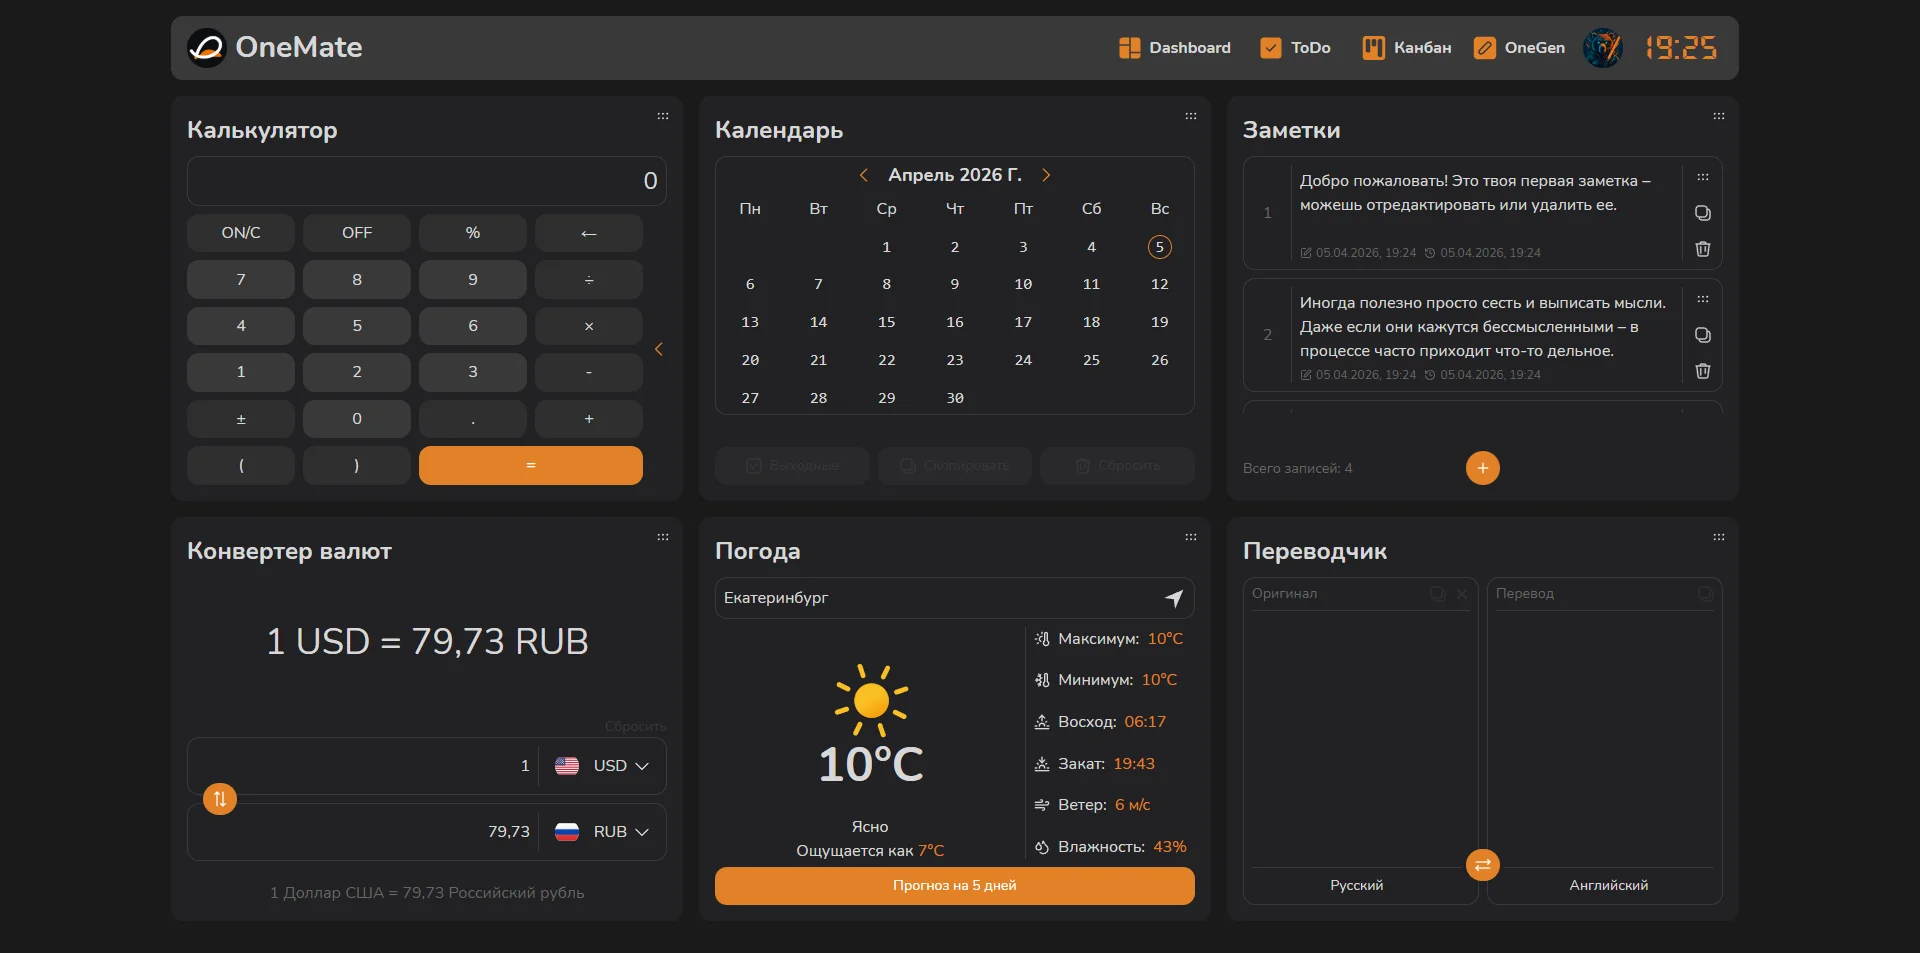
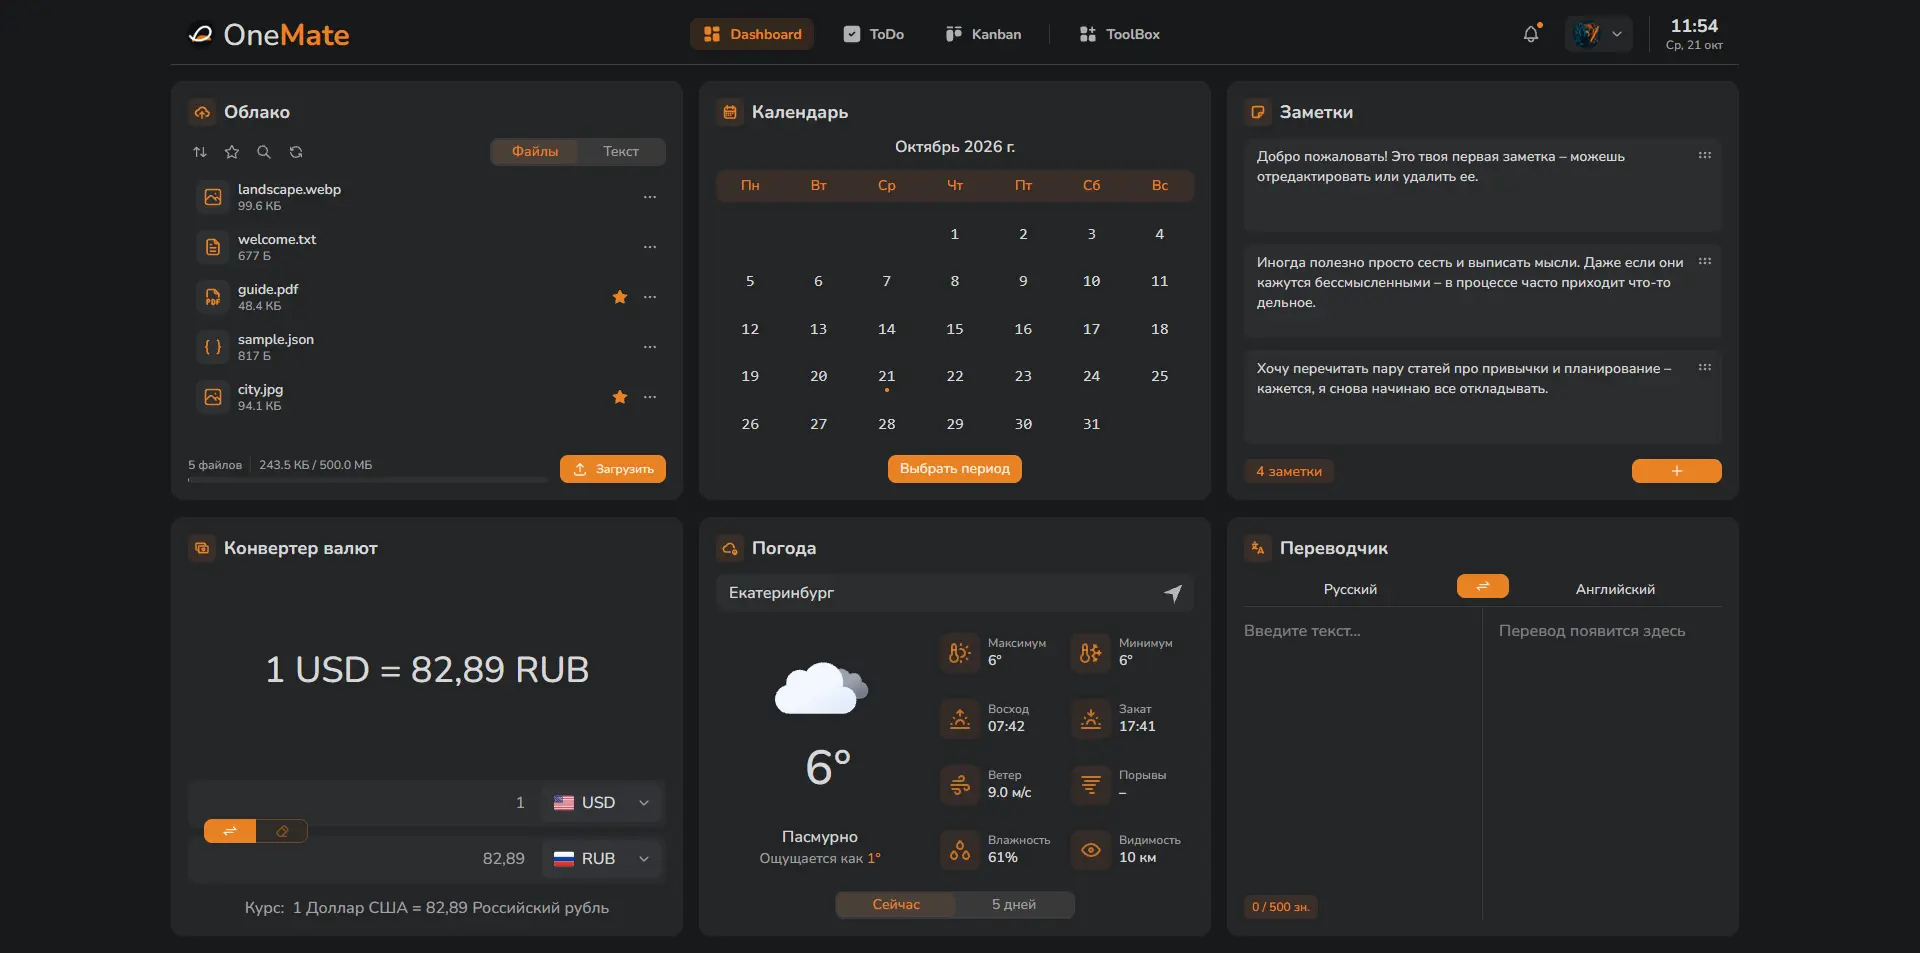
chore: update readme and docs

diff --git a/README.md b/README.md
@@ -13,13 +13,47 @@
 
 </div>
 
-**OneMate** – веб-приложение для создания собственного рабочего пространства с конструктором виджетов, канбан-доской и инструментами для повседневных задач.
+**OneMate** – веб-приложение для организации личного рабочего пространства с настраиваемым рабочим столом, управлением задачами и инструментами для повседневной работы.
+
+<p align="center">
+  <a href="https://onemate.letunoff.ru">
+    <img src="https://img.shields.io/badge/Открыть_OneMate-e98224?style=for-the-badge" alt="Открыть OneMate">
+  </a>
+</p>
 
 <div align="center">
-
-[![OneMate](https://img.shields.io/badge/Открыть_OneMate-e98224)](https://onemate.letunoff.ru)
-
+  <img src="./docs/screenshots/dashboard.webp" alt="Dashboard" width="800">
 </div>
+
+## Модули
+
+### Dashboard
+
+**Настраиваемый рабочий стол** с шестью виджетами на выбор. Поддерживает добавление инструментов из каталога и изменение их расположения с помощью drag & drop.
+
+Доступные виджеты:
+
+- **Облако** – хранение и предпросмотр файлов, публичные ссылки и облачный буфер обмена;
+- **Заметки** – создание, редактирование и сортировка заметок;
+- **Календарь** – выбор периодов, подсчёт дней и копирование результатов;
+- **Калькулятор** – арифметические операции и история вычислений;
+- **Конвертер валют** – конвертация сумм и копирование курсов и результатов;
+- **Погода** – текущие погодные условия и прогноз до 5 дней;
+- **Сеть** – мониторинг доступности сайтов и серверов с уведомлениями;
+- **Переводчик** – перевод текста между языками.
+
+### Kanban
+
+**Интерактивная доска** для планирования и управления задачами, позволяющая организовывать рабочие процессы с помощью настраиваемых колонок, приоритетов и сроков выполнения.
+
+- создание и настройка задач и колонок;
+- сортировка и перемещение с помощью drag & drop;
+- управление приоритетами, статусами и сроками выполнения;
+- уведомления о просроченных задачах.
+
+### ToDo
+
+Раздел для управления списками дел – **в разработке**.
 
 ## Технологический стек
 
@@ -53,46 +87,15 @@
 - **Уведомления** – единый центр событий приложения;
 - **Демо-режим** – знакомство с возможностями без регистрации.
 
-## Модули
-
-### Dashboard
-
-**Конструктор рабочего стола**, позволяющий самостоятельно собрать набор из 6 виджетов, выбирая инструменты из каталога и изменяя их расположение с помощью drag & drop.
-
-Доступные виджеты:
-
-- **Облако** – хранение и предпросмотр файлов, публичные ссылки и облачный буфер обмена;
-- **Заметки** – создание, редактирование и сортировка заметок;
-- **Календарь** – выбор периодов, подсчёт дней и копирование результатов;
-- **Калькулятор** – арифметические операции и история вычислений;
-- **Конвертер валют** – конвертация сумм и копирование курсов и результатов;
-- **Погода** – текущие погодные условия и прогноз до 5 дней;
-- **Сеть** – мониторинг доступности сайтов и серверов с уведомлениями;
-- **Переводчик** – перевод текста между языками.
-
-### Kanban
-
-**Доска для визуального управления задачами.**
-
-- создание и настройка задач и колонок;
-- сортировка и перемещение с помощью drag & drop;
-- управление приоритетами, статусами и сроками выполнения;
-- уведомления о просроченных задачах.
-
-### ToDo
-
-Раздел для управления списками дел – **в разработке**.
-
 ## Скриншоты
 
 <details>
 <summary>Показать</summary>
 
 <p align="center">
-  <img src="./docs/screenshots/home.webp" alt="Главная страница OneMate" width="800">
-  <img src="./docs/screenshots/dashboard.webp" alt="Dashboard" width="800">
+  <img src="./docs/screenshots/home.webp" alt="Главная страница" width="800">
   <img src="./docs/screenshots/kanban.webp" alt="Kanban" width="800">
-  <img src="./docs/screenshots/profile.webp" alt="Профиль" width="800">
+  <img src="./docs/screenshots/setting.webp" alt="Настройки" width="800">
 </p>
 
 </details>
